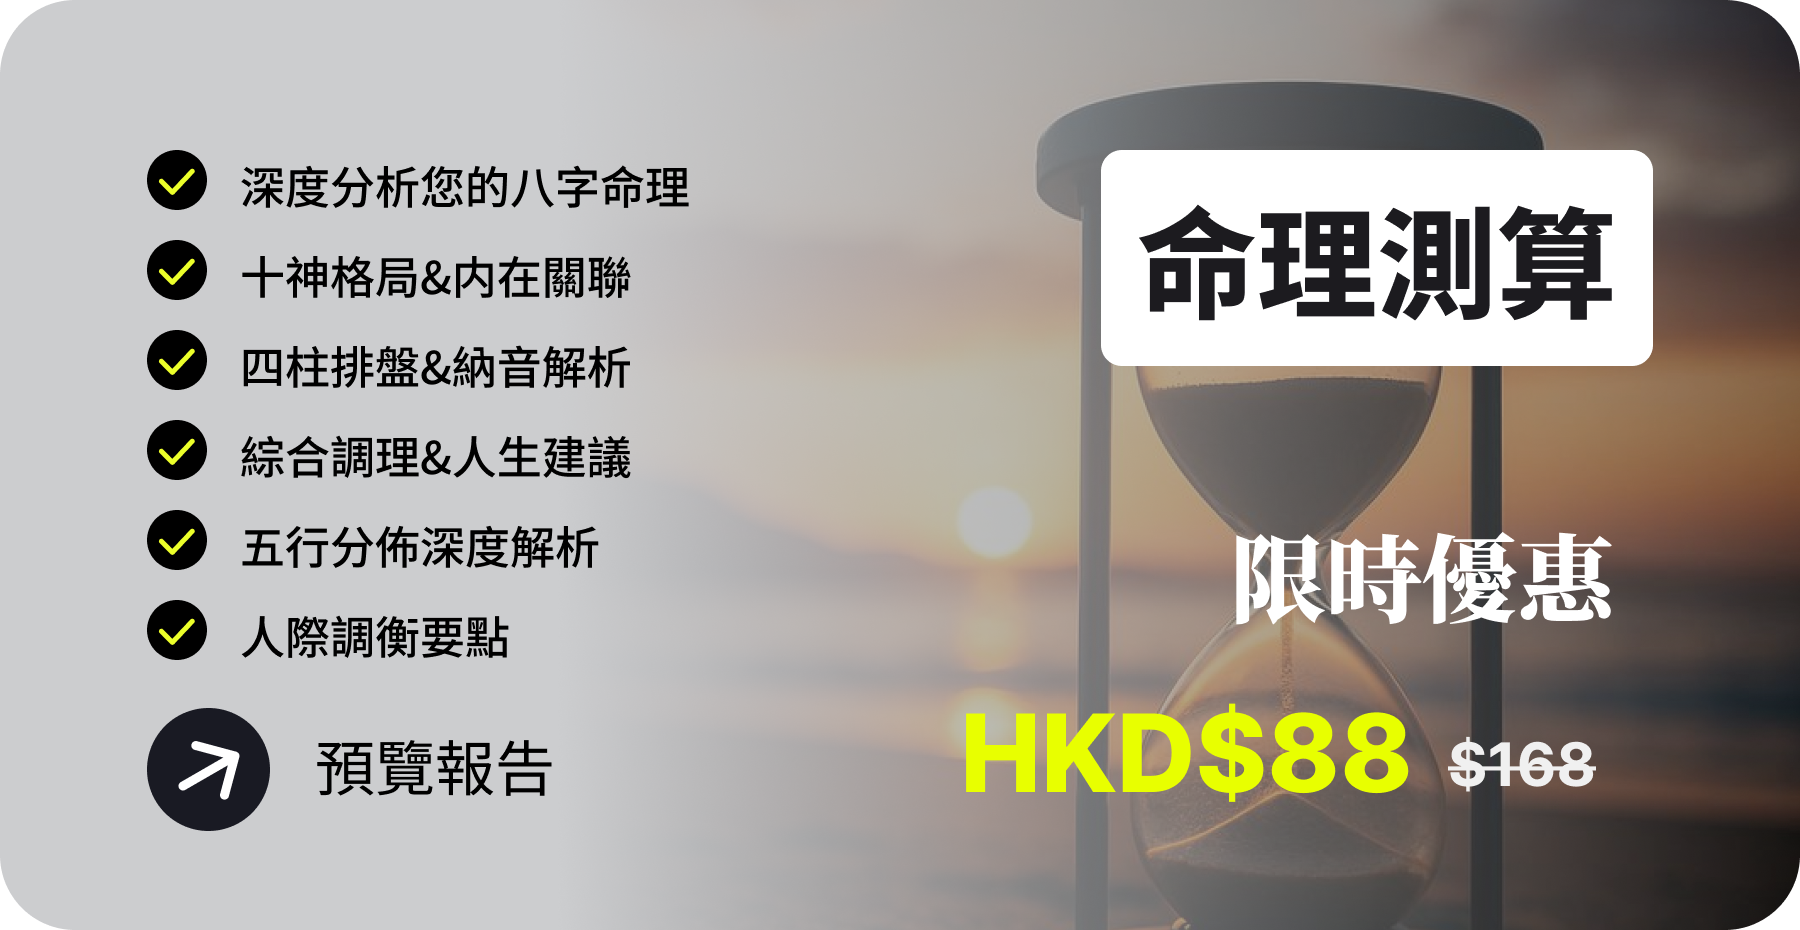
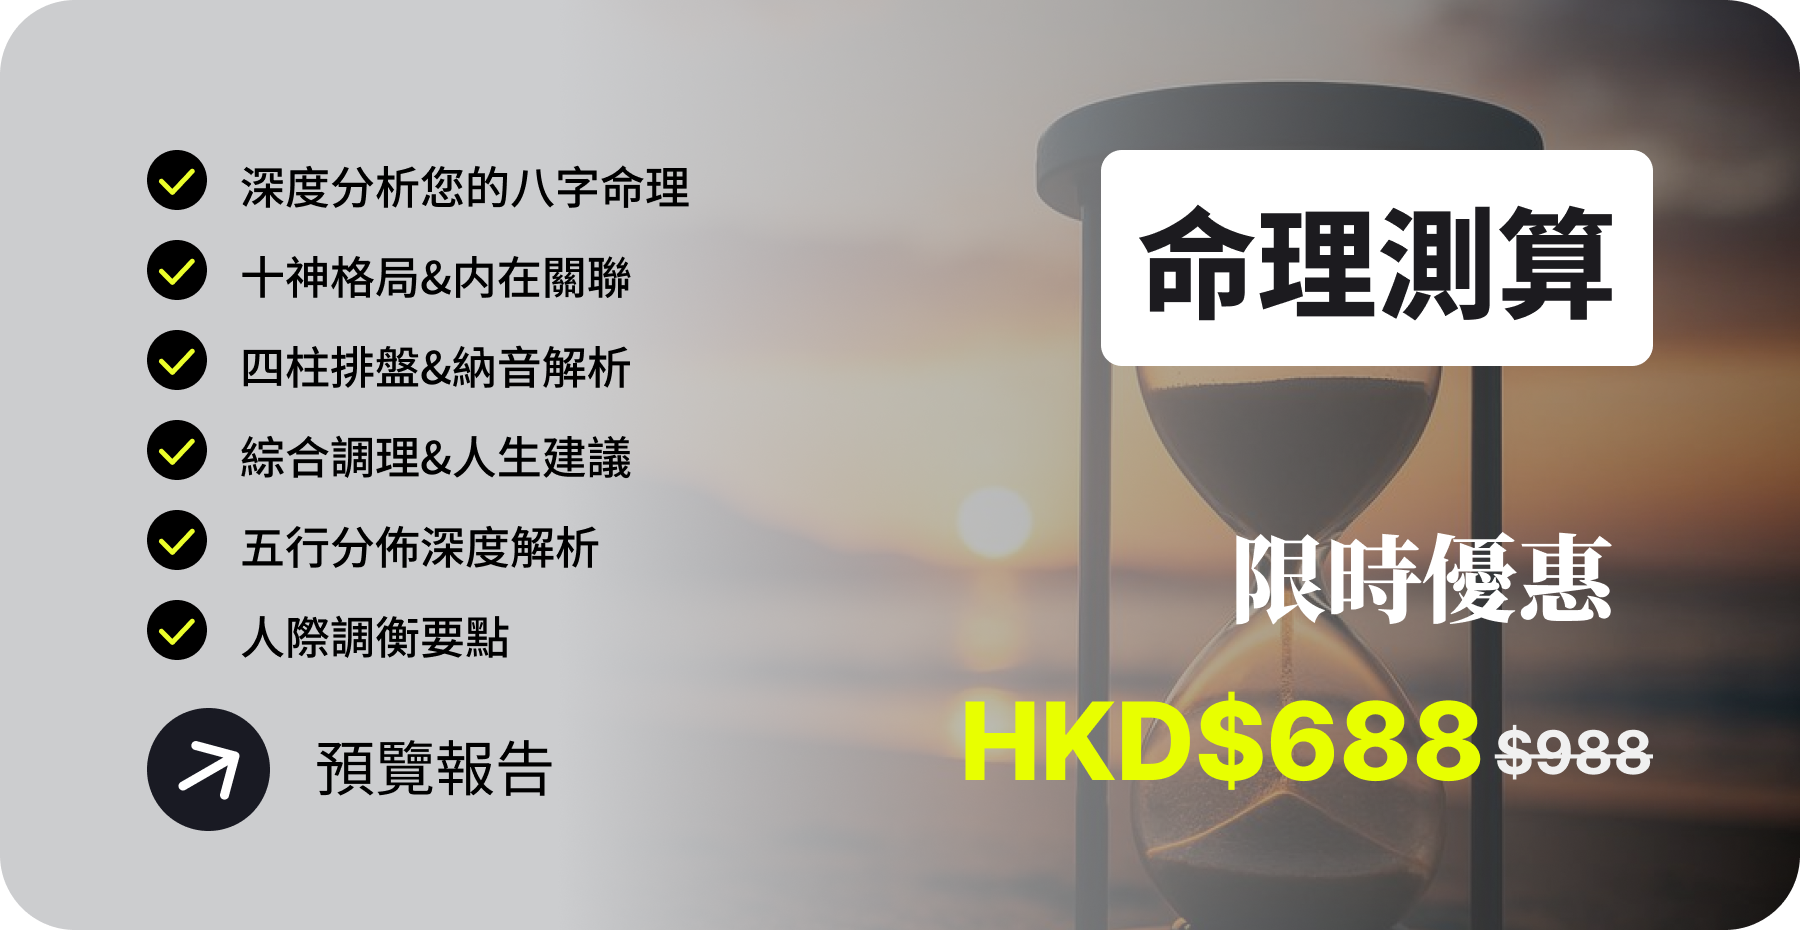
change all the report price images and set up

Changed region(s): [[0.5289, 0.7484, 0.9333, 0.8731]]

diff --git a/src/utils/regionalPricing.js b/src/utils/regionalPricing.js
@@ -189,34 +189,34 @@ export function getDisplayPrices(locale, region = null) {
 
 	const prices = {
 		CNY: {
-			fengshui: { original: 388, discount: 188 },
-			life: { original: 168, discount: 88 },
-			fortune: { original: 88, discount: 38 },
-			wealth: { original: 88, discount: 38 },
-			relationship: { original: 88, discount: 38 },
-			couple: { original: 188, discount: 88 },
-			health: { original: 88, discount: 38 },
-			career: { original: 88, discount: 38 },
+			fengshui: { original: 1188, discount: 818 },
+			life: { original: 888, discount: 628 },
+			fortune: { original: 538, discount: 348 },
+			wealth: { original: 538, discount: 348 },
+			relationship: { original: 538, discount: 348 },
+			couple: { original: 888, discount: 628 },
+			health: { original: 538, discount: 348 },
+			career: { original: 538, discount: 348 },
 		},
 		HKD: {
-			fengshui: { original: 388, discount: 188 },
-			life: { original: 168, discount: 88 },
-			fortune: { original: 88, discount: 38 },
-			wealth: { original: 88, discount: 38 },
+			fengshui: { original: 1288, discount: 888 },
+			life: { original: 988, discount: 688 },
+			fortune: { original: 588, discount: 388 },
+			wealth: { original: 588, discount: 388 },
 			relationship: { original: 88, discount: 38 },
-			couple: { original: 188, discount: 88 },
-			health: { original: 88, discount: 38 },
-			career: { original: 88, discount: 38 },
+			couple: { original: 988, discount: 688 },
+			health: { original: 588, discount: 388 },
+			career: { original: 588, discount: 388 },
 		},
 		TWD: {
-			fengshui: { original: 1568, discount: 668 }, // Approximate conversion
-			life: { original: 668, discount: 368 },
-			fortune: { original: 368, discount: 168 },
-			wealth: { original: 368, discount: 168 },
-			relationship: { original: 368, discount: 168 },
-			couple: { original: 668, discount: 368 },
-			health: { original: 368, discount: 168 },
-			career: { original: 368, discount: 168 },
+			fengshui: { original: 5288, discount: 3688 },
+			life: { original: 3988, discount: 2688 },
+			fortune: { original: 2388, discount: 1588 },
+			wealth: { original: 2388, discount: 1588 },
+			relationship: { original: 2388, discount: 1588 },
+			couple: { original: 3988, discount: 2688 },
+			health: { original: 2388, discount: 1588 },
+			career: { original: 2388, discount: 1588 },
 		},
 	};
 

diff --git a/src/app/[locale]/report-preview/page.jsx b/src/app/[locale]/report-preview/page.jsx
@@ -335,7 +335,8 @@ const ReportPreviewPage = () => {
 					0,
 				);
 				setCartCount(totalQuantity);
-				const cartLabel = locale === "zh-CN" ? "查看购物车" : "查看購物車";
+				const cartLabel =
+					locale === "zh-CN" ? "查看购物车" : "查看購物車";
 				const isMobile =
 					typeof window !== "undefined" &&
 					window.matchMedia &&
@@ -964,8 +965,7 @@ const ReportPreviewPage = () => {
 											career: "/images/report-preview/career.png",
 										};
 
-										const isComingSoon =
-											key === "fengshui";
+										const isComingSoon = key === "fengshui";
 										return (
 											<div
 												key={key}
@@ -992,7 +992,8 @@ const ReportPreviewPage = () => {
 													{isComingSoon && (
 														<div className="absolute inset-0 z-10 flex items-center justify-center pointer-events-none">
 															<span className="px-4 py-1.5 text-sm sm:text-base font-extrabold rounded-full bg-white/95 text-[#073E31] border border-[#073E31]/20 shadow-sm">
-																{locale === "zh-CN"
+																{locale ===
+																"zh-CN"
 																	? "即将推出"
 																	: "即將推出"}
 															</span>

diff --git a/src/app/[locale]/home/page.tsx b/src/app/[locale]/home/page.tsx
@@ -18,9 +18,12 @@ import TestimonialSection from "@/components/home/TestimonialSection";
 import FortuneTips from "@/components/home/FortuneTips";
 import ShopAssistantWidget from "@/components/shop/ShopAssistantWidget";
 
-import { get } from "@/lib/ajax";
-export default function Home({ params }) {
-	const locale = params?.locale || "zh-TW";
+export default async function Home({
+	params,
+}: {
+	params: Promise<{ locale?: string }>;
+}) {
+	const { locale = "zh-TW" } = (await params) || {};
 	return (
 		<div className="min-h-screen bg-[#EFEFEF]">
 			<ShopNavbar />
